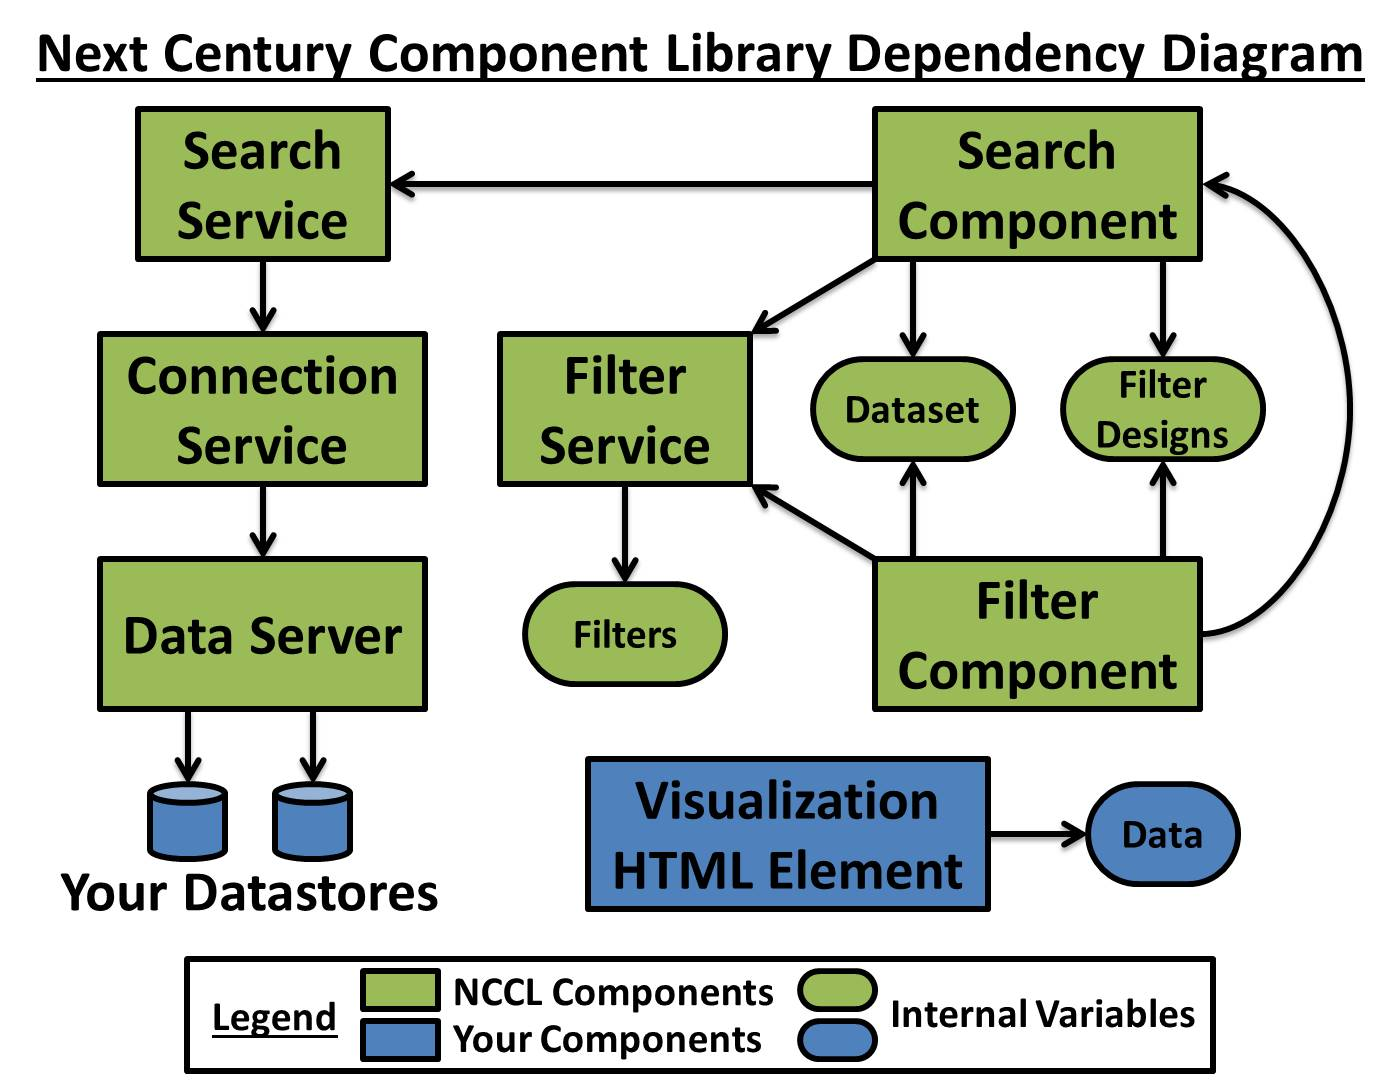
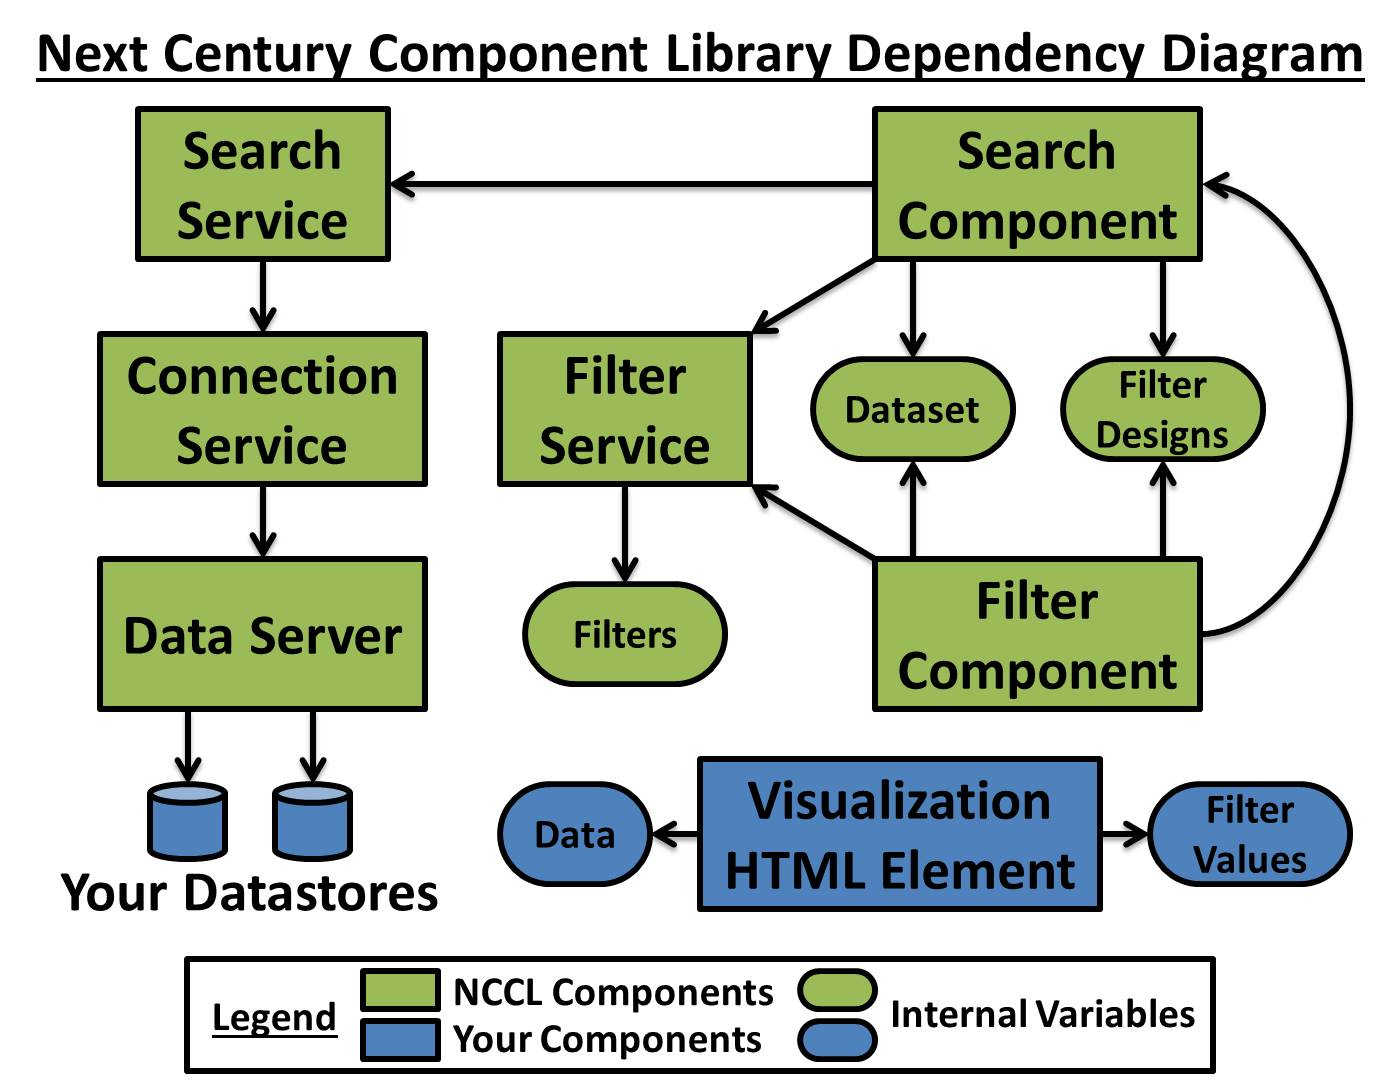
Added new images to the NCCL README.

Changed region(s): [[0.3379, 0.6875, 0.9829, 0.8438]]

diff --git a/src/app/library/README.md b/src/app/library/README.md
@@ -412,6 +412,8 @@ TODO
 
 ### Using My Visualization Elements
 
+![NCCL Assumptions](./images/NCCL-Assumptions.jpg)
+
 To use your own Visualization Elements:
 
 1. It's best if your Visualization element has a "draw data" function that accepts an **[array of search data objects](#search-data-object)**.  If it does not, you will need to add a `dataReceived` event listener to a Search Component and use [search data transformations](#transforming-search-data-to-send-to-my-visualization) to notify your Visualization element to render the search data.
@@ -420,9 +422,9 @@ To use your own Visualization Elements:
 
 ### Using Custom Data Transformations
 
-#### Transforming Search Data to Send to My Visualization
+![NCCL Transformations](./images/NCCL-Transformations.jpg)
 
-![NCCL Search Transforms](./images/NCCL-Search-Transforms.jpg)
+#### Transforming Search Data to Send to My Visualization
 
 1. Define your Visualization element and Search Component as normal ([see above](#search-and-visualize)), but you do not need to add the `vis-element-id` or `vis-draw-function` attributes to the Search Component.
 2. Define a transform function that accepts an **[array of search data objects](#search-data-object)**, transforms it into your data format, and sends the transformed visualization data to your Visualization element by whatever method you desire (like a direct function call or attribute data binding).
@@ -455,8 +457,6 @@ search1.addEventListener('dataReceived', transformSearchDataArray);
 ```
 
 #### Transforming Filter Data Sent from My Visualization
-
-![NCCL Filter Output Transforms](./images/NCCL-Filter-Out-Transforms.jpg)
 
 1. Define and initialize your Visualization element, Search Component, and Filter Component as normal ([see above](#search-and-filter)), but you do not need to add the `vis-filter-output-event` attribute to the Filter Component.
 2. Define a transform function that accepts your Visualization element's filter event data, transforms it into a **[filter data array](#filter-data-array)**, and sends the filter data array to the Filter Component by calling its `updateFilters` function.
@@ -502,8 +502,6 @@ vis1.addEventListener('yourFilterEvent', transformFilterEventData);
 ```
 
 #### Transforming Filter Data to Send to My Visualization
-
-![NCCL Filter Input Transforms](./images/NCCL-Filter-In-Transforms.jpg)
 
 1. Define and initialize your Visualization element, Search Component, and Filter Component as normal ([see above](#search-and-filter)), but you do not need to add the `vis-filter-input-function` attribute to the Filter Component.
 2. Define a transform function that accepts a **[filter data array](#filter-data-array)**, transforms it into your data format, and sends the transformed filter data to your Visualization element by whatever method you desire (like a direct function call or attribute data binding).
